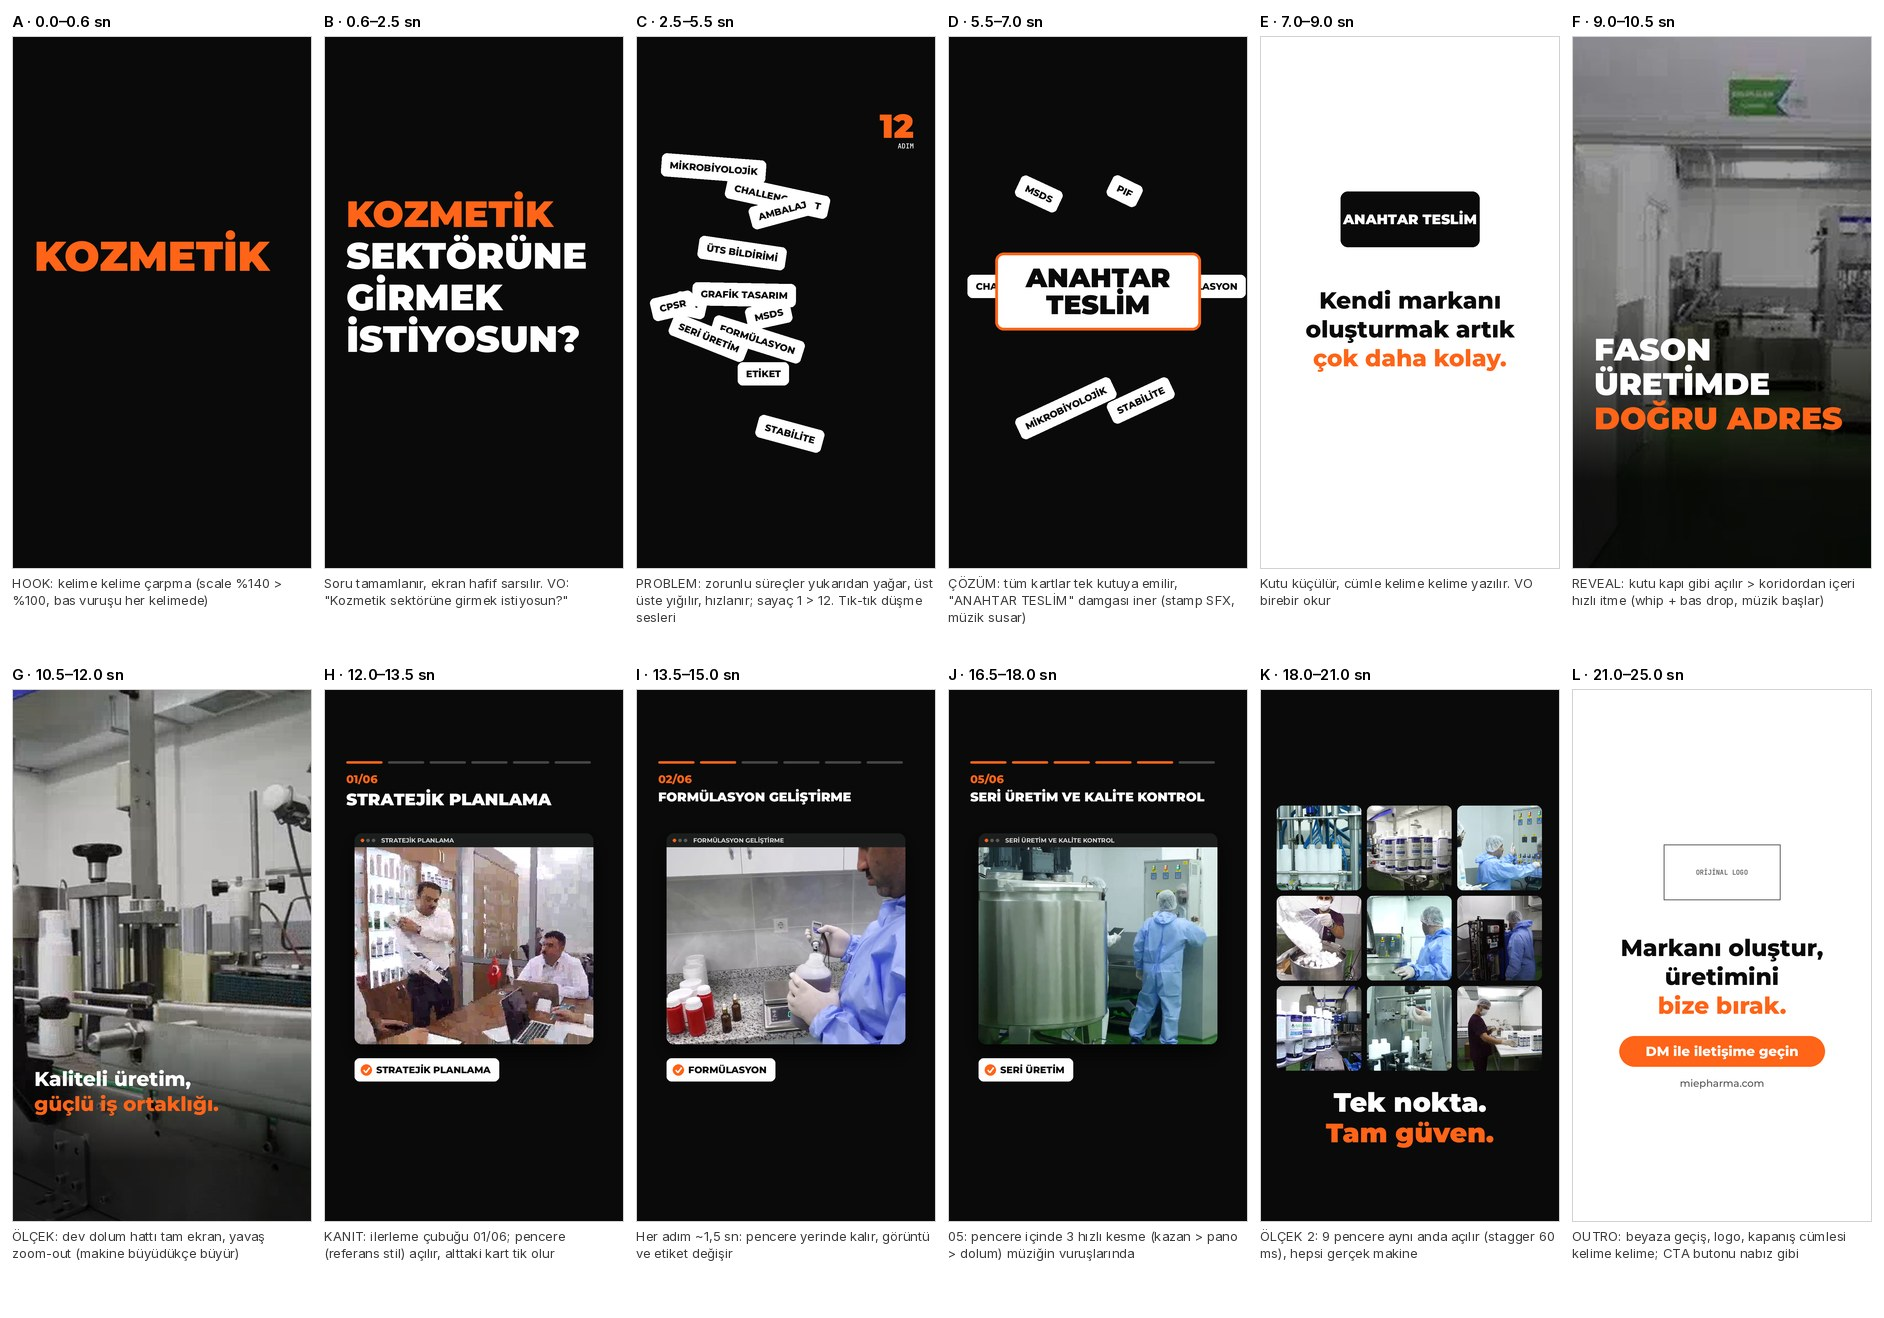
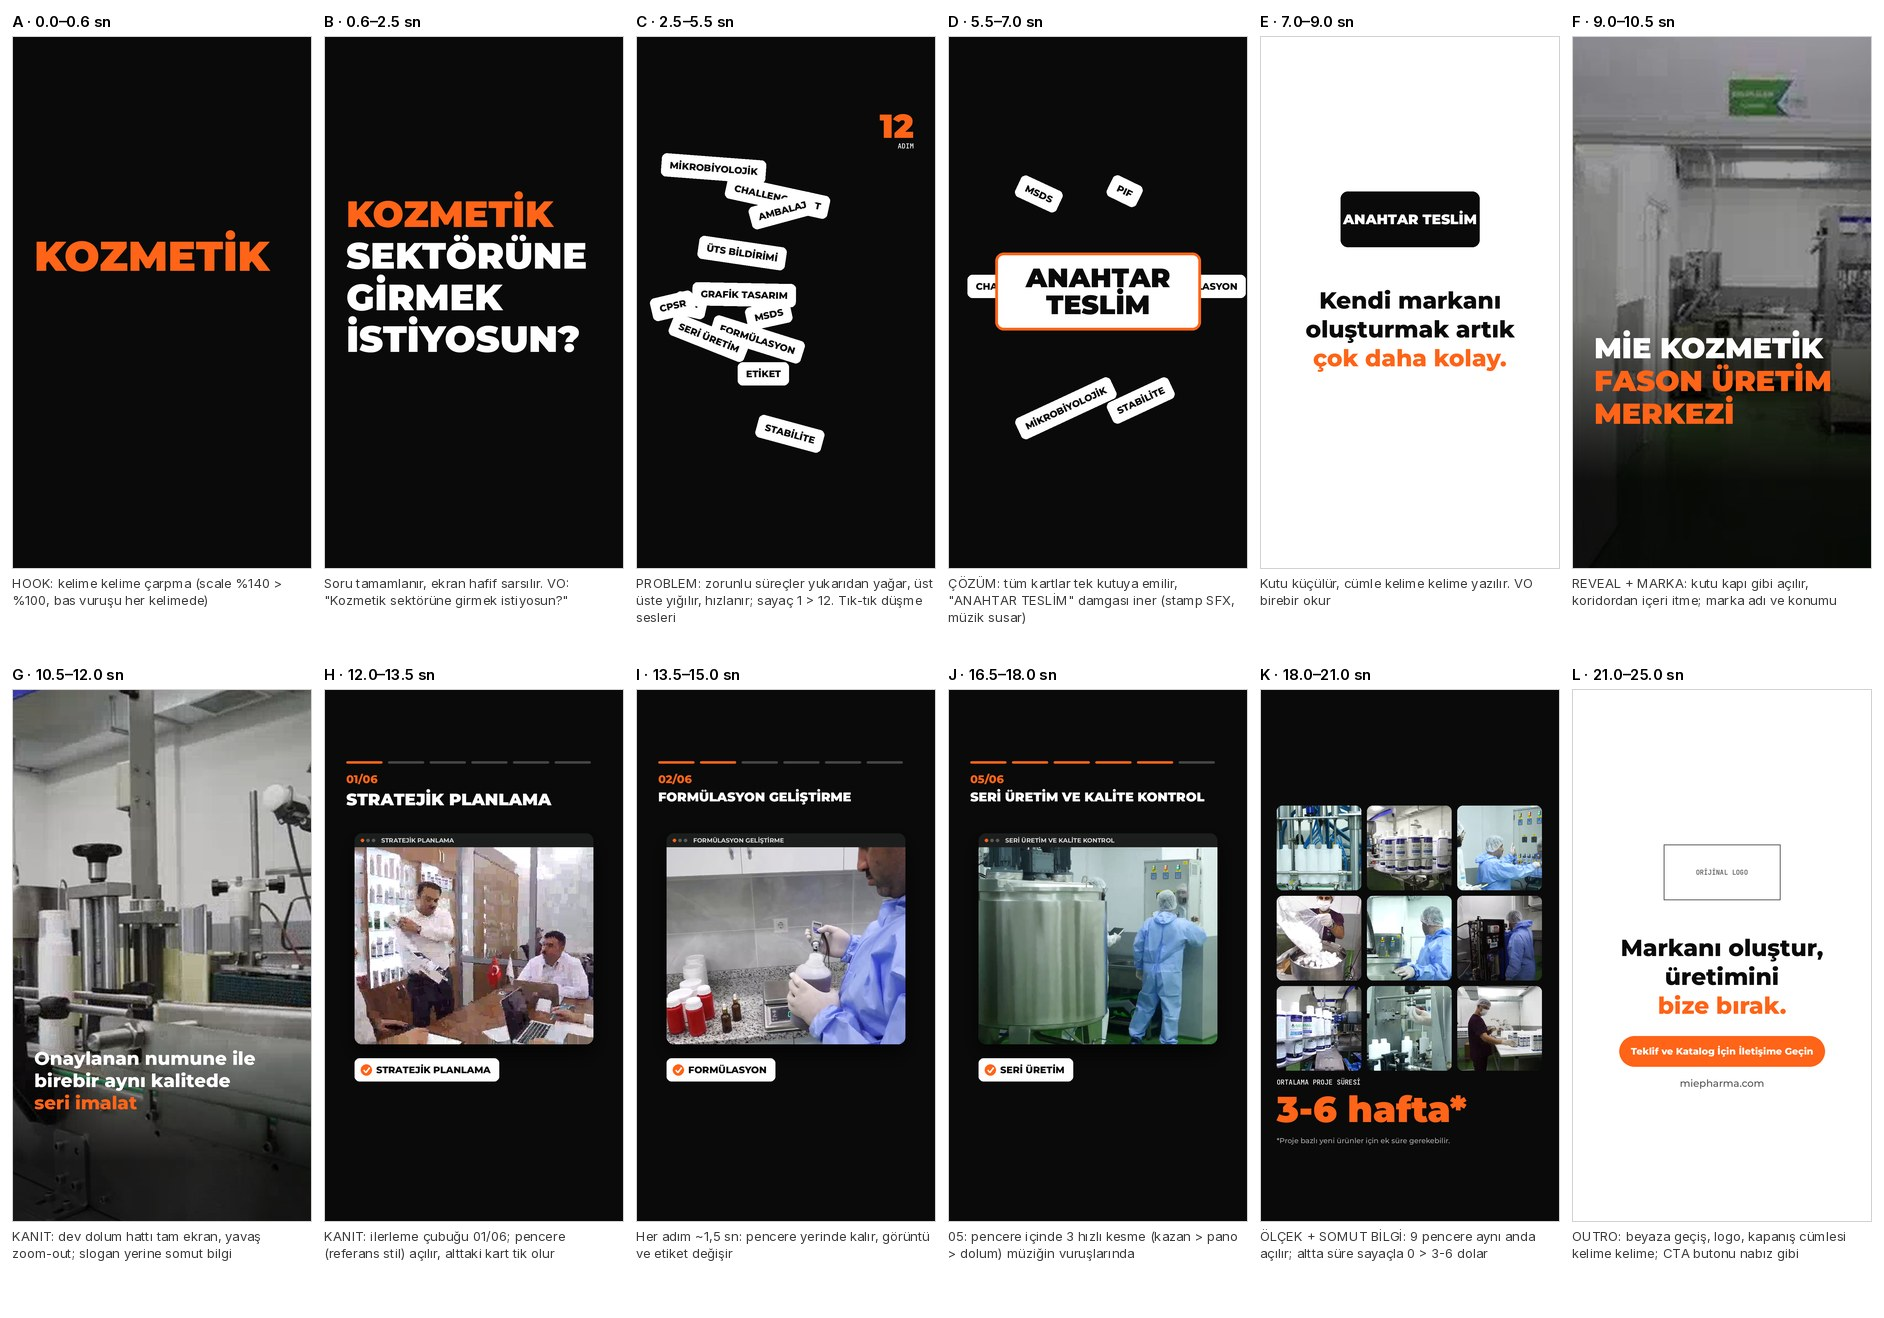
Ogilvy copy revision: brand+promise headline, facts over slogans, single CTA
Claude-Session: https://claude.ai/code/session_01Y7mPH5afM1HLbSwNe3mKz7

diff --git a/hafta-1-tanitim-videosu/05-metin.md b/hafta-1-tanitim-videosu/05-metin.md
@@ -1,48 +1,46 @@
-# Aşama 5 — Metin (yalnızca birebir site / IG ifadeleri)
+# Aşama 5 — Metin v4 (Ogilvy düzenlemesi)
 
-Kaynak: Claude in Chrome taraması, 10.10.2026. Site metinlerindeki yazım aynen korunmuştur.
-Ogilvy: kitleyi işaretleyen ve vaat içeren açılış ("Hayalinizdeki markayı…"), tek vaat (anahtar teslim), kanıt = gerçek tesis + 6 adım, kapanışta tek çağrı. Müzik dış sesin altında kısık.
+> Kural: her ifade miepharma.com ya da @mie.fabrika'da birebir geçer. Kaynaklar: `04-storyboard.md` tablosu.
 
-## Dış ses (~45 sn, ~90 kelime)
-
-| # | Cümle (birebir) | Kaynak |
-|---|---|---|
-| 1 | Hayalinizdeki markayı gerçeğe dönüştürün. | miepharma.com/fason-kozmetik-uretimi/ (başlık: "HAYALİNİZDEKİ MARKAYI GERÇEĞE DÖNÜŞTÜRÜN") |
-| 2 | Proje, formülasyonundan laboratuvar testlerine grafik tasarımından ambalaj ve etiket seçimlerinize kadar anahtar teslimi olarak sunulur. | miepharma.com/fason-uretimimiz/ |
-| 3 | Marka hedeflerinizi ve hedef kitlenizi analiz ederek işe başlıyoruz. | /fason-kozmetik-uretimi/ adım 1 |
-| 4 | Laboratuvarımızda size özel numuneler hazırlıyor, testlerden (stabilite, mikrobiyoloji) geçiriyoruz. | adım 2 |
-| 5 | Marka kimliğinize uygun ambalaj alternatifleri ve grafik tasarım desteği sunuyoruz. | adım 3 |
-| 6 | Tüm ürünlerin yönetmeliklere uygunluğunu sağlıyor ve kayıt süreçlerini tamamlıyoruz. | adım 4 |
-| 7 | Onaylanan numune ile birebir aynı kalitede seri imalatı gerçekleştiriyoruz. | adım 5 |
-| 8 | Ürünlerinizi güvenli bir şekilde paketleyip satışa hazır halde teslim ediyoruz. | adım 6 |
-| 9 | Size sadece bir fabrika değil, stratejik bir çözüm ortaklığı sunuyoruz. | /fason-kozmetik-uretimi/ |
-| 10 | Başarı hikayenizi bugün başlatın. | /fason-kozmetik-uretimi/ (başlık: "BAŞARI HİKAYENİZİ BUGÜN BAŞLATIN") |
-
-Seslendirme notu: 4. cümlede parantez "testlerden, stabilite ve mikrobiyoloji, geçiriyoruz" diye okunur; ekranda parantezli hali yazar.
-
-## Ekran metinleri
-
-| Metin | Kaynak |
+## Ogilvy teşhisi
+| Soru | Cevap |
 |---|---|
-| ANAHTAR TESLİM | @mie.fabrika sabit carousel 05.12.2025: "ANAHTAR TESLİM FASON ÜRETİM HİZMETİ" |
-| FASON KOZMETİK & DERMOKOZMETİK ÜRETİMLER | miepharma.com üst bant |
-| Stratejik Planlama · Formülasyon Geliştirme · Tasarım ve Ambalaj Seçimi · Yasal Kayıtlar · Seri Üretim ve Kalite Kontrol · Teslimat | /fason-kozmetik-uretimi/ "ADIM ADIM FASON KOZMETİK ÜRETİM SÜRECİMİZ" |
-| Tüm dermokozmetik ürünlerin üretimi | miepharma.com ana slayt: "TÜM DERMOKOZMETİK ÜRÜNLERİN ÜRETİMİ" |
-| ÜRÜN DOLUMLARI | miepharma.com ana slayt |
-| SERİ ÜRETİM · KALİTE KONTROL | adım 5 adından |
-| AMBALAJ | adım 3 adından |
-| ORTALAMA PROJE SÜRESİ 3–6 hafta | /fason-proje-hazirliklari/: "Ortalama proje süresi 3-6 hafta arasında sonuçlanmaktadır." |
-| *Proje bazlı yeni ürünler için ek süre gerekebilir. | /fason-proje-hazirliklari/ |
-| ÇÖZÜM ORTAKLIĞI | /fason-kozmetik-uretimi/: "stratejik bir çözüm ortaklığı" |
-| Teklif ve Katalog İçin İletişime Geçin | @mie.fabrika bio |
-| miepharma.com | IG bio bağlantısı |
+| Konumlandırma | Kozmetik sektörüne girmek isteyen ama formül, test, dosya ve bakanlık yükünden çekinen girişimci. Mie = anahtar teslim fason üretim merkezi |
+| Tek vaat | **Kendi markanı oluşturmak artık çok daha kolay.** (fayda: kolaylık) |
+| Büyük fikir | 12 zorunlu süreç ekrana yağar, tek "ANAHTAR TESLİM" kutusuna girer. Kutu fabrikanın kapısı olur |
+| Hatırlatıcı (burr) | "ANAHTAR TESLİM" damgası (görüntü + ses + kelime). Videonun başında ve ilk yarısında tekrar eder |
+| Kanıt | Gerçek tesis + somut bilgi: 6 adım, "birebir aynı kalitede seri imalat", "ortalama 3-6 hafta" |
+| Kitleyi işaretle | İlk saniye: "Kozmetik sektörüne girmek istiyosun?" |
+| Marka + vaat başlıkta | 9. sn: "Mie Kozmetik · Fason Üretim Merkezi" fabrika kapısında |
 
-## Instagram açıklaması
+## v3'e göre yapılan değişiklikler
+| Çıkan | Neden (Ogilvy) | Yerine |
+|---|---|---|
+| "FASON ÜRETİMDE DOĞRU ADRES" | Övgü sloganı, bilgi taşımıyor; marka adı yok | **Mie Kozmetik · Fason Üretim Merkezi** (marka + ne yaptığı) |
+| "Kaliteli üretim, güçlü iş ortaklığı." | "Kaliteli" sıfatı kanıtlanmamış övgü | **Onaylanan numune ile birebir aynı kalitede seri imalat** (somut taahhüt) |
+| "Tek nokta. Tam güven." | Üçüncü slogan, vaadi dağıtıyor | **Ortalama proje süresi 3-6 hafta** (rakam, sıfattan güçlü) |
+| "DM ile iletişime geçin" | Ne alacağını söylemiyor | **Teklif ve Katalog İçin İletişime Geçin** (somut teklif: teklif + katalog; bio ile aynı) |
+| — | Kazananı tekrarla | Kapanış cümlesi "Markanı oluştur, üretimini bize bırak." hesabın en çok etkileşim alan görselinden |
 
+## Dış ses (ElevenLabs) — 6 cümle, ~35 kelime
+Ogilvy: kelime yağmuru öldürür, görüntü anlatsın. Kart yağmuru (2,5–5,5 sn) **sessiz**, sadece efekt.
+
+| Süre | Cümle |
+|---|---|
+| 0,3 | Kozmetik sektörüne girmek istiyosun? |
+| 7,0 | Kendi markanı oluşturmak artık çok daha kolay. |
+| 9,2 | Mie Kozmetik, fason üretim merkezi. |
+| 10,6 | Onaylanan numune ile birebir aynı kalitede seri imalat. |
+| 18,3 | Ortalama proje süresi 3-6 hafta. |
+| 21,5 | Markanı oluştur, üretimini bize bırak. |
+
+Müzik: dış ses altında kısık (Ogilvy: müzik hatırlanmayı düşürür), sessiz anlarda (kart yağmuru, adım montajı) öne çıkar.
+
+## Instagram açıklaması (ilk 125 karakter = kanca)
 ```
-Hayalinizdeki markayı gerçeğe dönüştürün.
+Kozmetik sektörüne girmek istiyosun? Kendi markanı oluşturmak artık çok daha kolay.
 
-Proje, formülasyonundan laboratuvar testlerine grafik tasarımından ambalaj ve etiket seçimlerinize kadar anahtar teslimi olarak sunulur.
+Mie Kozmetik | Fason Üretim Merkezi 🏭 Kozmetik Markanız için Ar-Ge, Formülasyon ve Bakanlık Bildirimi.
 
 Ortalama proje süresi 3-6 hafta arasında sonuçlanmaktadır.
 
@@ -52,10 +50,6 @@ Ortalama proje süresi 3-6 hafta arasında sonuçlanmaktadır.
 ```
 | Satır | Kaynak |
 |---|---|
-| 1–3 | yukarıdaki site kaynakları |
-| 4 | @mie.fabrika bio |
-| Etiketler | iddia değil, kategori etiketi (fason, private label, dermokozmetik site ifadeleri) |
-
-## Kullanılmayanlar (kaynak var ama riskli)
-- Sertifikalar: belgeler süresi dolmuş görünüyor
-- "Sağlık Bakanlığı GMP": belge görseli yok
+| 1 | @mie.fabrika (11.07.2025 Reels + 4 gönderi) |
+| 2, 4 | @mie.fabrika bio |
+| 3 | site /fason-proje-hazirliklari/ |

diff --git a/hafta-1-tanitim-videosu/04-storyboard.md b/hafta-1-tanitim-videosu/04-storyboard.md
@@ -16,11 +16,11 @@ Ogilvy: kitleyi işaretleyen soru ile açılış, problem–çözüm, gösterim 
 | C | 2,5–5,5 | 12 süreç kartı yukarıdan yağar, dönerek yığılır, hızlanır; sayaç 1>12 | FORMÜLASYON · STABİLİTE · MİKROBİYOLOJİK · CHALLENGE TEST · MSDS · PIF · CPSR · ÜTS BİLDİRİMİ · AMBALAJ · ETİKET · GRAFİK TASARIM · SERİ ÜRETİM | Kart düşme sesleri, gerilim |
 | D | 5,5–7 | Kartlar tek kutuya emilir, damga iner | ANAHTAR TESLİM | Damga SFX, müzik susar |
 | E | 7–9 | Kutu küçülür, cümle kelime kelime | Kendi markanı oluşturmak artık çok daha kolay. | VO |
-| F | 9–10,5 | Kutu kapı gibi açılır, koridordan içeri hızlı itme | FASON ÜRETİMDE DOĞRU ADRES | Whoosh + bas drop, müzik başlar |
-| G | 10,5–12 | Dev dolum hattı tam ekran, yavaş zoom-out | Kaliteli üretim, güçlü iş ortaklığı. | VO |
+| F | 9–10,5 | Kutu kapı gibi açılır, koridordan içeri hızlı itme | MİE KOZMETİK · FASON ÜRETİM MERKEZİ | VO + whoosh, bas drop, müzik başlar |
+| G | 10,5–12 | Dev dolum hattı tam ekran, yavaş zoom-out | Onaylanan numune ile birebir aynı kalitede seri imalat | VO |
 | H–J | 12–18 | İlerleme çubuğu 01>06; referans stildeki pencere yerinde kalır, görüntü ve etiket değişir, alttaki kart tik alır. 05'te pencere içinde 3 hızlı kesme | 6 adım adı (site) | Her adımda "tik" sesi, vuruşa kesme |
-| K | 18–21 | 9 pencere aynı anda açılır (60 ms aralıkla), hepsi gerçek makine | Tek nokta. Tam güven. | VO |
-| L | 21–25 | Beyaza geçiş, orijinal logo, kapanış cümlesi kelime kelime; CTA nabız gibi | Markanı oluştur, üretimini bize bırak. · DM ile iletişime geçin · miepharma.com | VO, müzik çözülür |
+| K | 18–21 | 9 pencere aynı anda açılır (60 ms aralıkla); süre sayaçla dolar | ORTALAMA PROJE SÜRESİ 3-6 hafta* · *Proje bazlı yeni ürünler için ek süre gerekebilir. | VO |
+| L | 21–25 | Beyaza geçiş, orijinal logo, kapanış cümlesi kelime kelime; CTA nabız gibi | Markanı oluştur, üretimini bize bırak. · Teklif ve Katalog İçin İletişime Geçin · miepharma.com | VO, müzik çözülür |
 
 ## Tipografi (Reels standardı, kurumsal font)
 - **Montserrat** (site fontu): kanca/başlık Black 900, 110–150 px, BÜYÜK HARF, satır başına en fazla 12–14 karakter
@@ -39,22 +39,14 @@ Ogilvy: kitleyi işaretleyen soru ile açılış, problem–çözüm, gösterim 
 | SERİ ÜRETİM | site adım 5 "Seri Üretim ve Kalite Kontrol" |
 | ANAHTAR TESLİM | @mie.fabrika 05.12.2025 "ANAHTAR TESLİM FASON ÜRETİM HİZMETİ" |
 | Kendi markanı oluşturmak artık çok daha kolay. | @mie.fabrika 4 gönderi (29.04, 27.04, 17.04, 09.04.2026) |
-| FASON ÜRETİMDE DOĞRU ADRES | @mie.fabrika 22.04.2026 |
-| Kaliteli üretim, güçlü iş ortaklığı | @mie.fabrika 22.04 ve 16.04.2026 |
+| Mie Kozmetik \| Fason Üretim Merkezi | @mie.fabrika bio |
+| Onaylanan numune ile birebir aynı kalitede seri imalat | site adım 5 cümlesinden kesit |
+| Ortalama proje süresi 3-6 hafta / *Proje bazlı yeni ürünler için ek süre gerekebilir. | site /fason-proje-hazirliklari/ |
 | 6 adım adları | site /fason-kozmetik-uretimi/ |
-| Tek nokta. Tam güven. | @mie.fabrika 09.04.2026 |
 | Markanı oluştur, üretimini bize bırak. | @mie.fabrika 09.04.2026 (hesabın en çok etkileşim alan görseli) |
-| DM ile iletişime geçin | @mie.fabrika 09.04.2026 |
+| Teklif ve Katalog İçin İletişime Geçin | @mie.fabrika bio |
 | miepharma.com | IG bio |
 
 Sayaç "12": ekrandaki kart sayısı (iddia değil, ekranda sayılan kartlar).
 
-## Dış ses (~30 kelime)
-Kozmetik sektörüne girmek istiyosun? · Kendi markanı oluşturmak artık çok daha kolay. · Kaliteli üretim, güçlü iş ortaklığı. · Tek nokta. Tam güven. · Markanı oluştur, üretimini bize bırak.
-(Tamamı @mie.fabrika ifadesi, "sen" hitabı tutarlı.)
-
-## Açık noktalar
-- "İSTİYOSUN" hesaptaki yazımı. Ekranda "İSTİYOR MUSUN?" yazmak için müşteri onayı gerekir
-- Tam ekran sahneler (F, G) için bu kliplerin **1080p kısa kesitleri** gerekiyor (şu anki 720p/480p kopyalar tam ekranda bulanık): MIE_3, MIE_30, MIE_7, MIE_28, MIE_38, MIE_9
-- Orijinal logo dosyası
-- Görüntü–adım eşleşmeleri temsili
+Metin gerekçesi ve dış ses: `05-metin.md`
